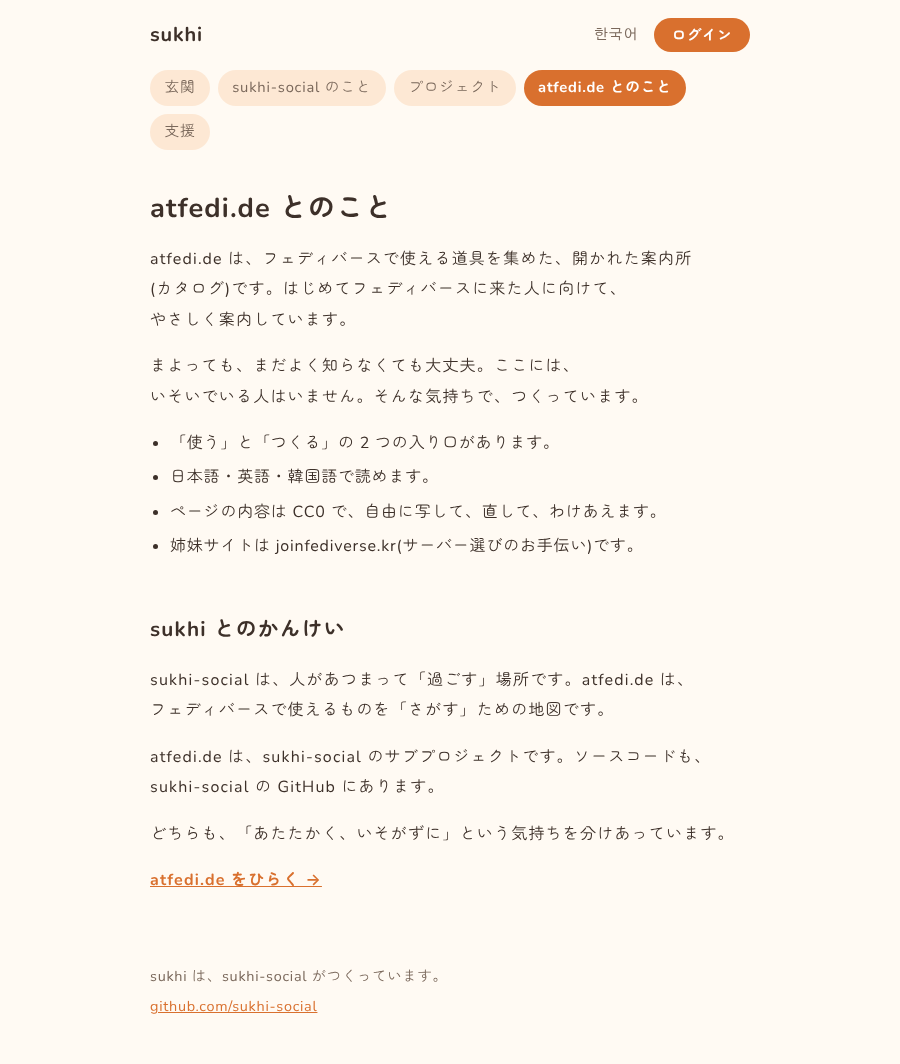
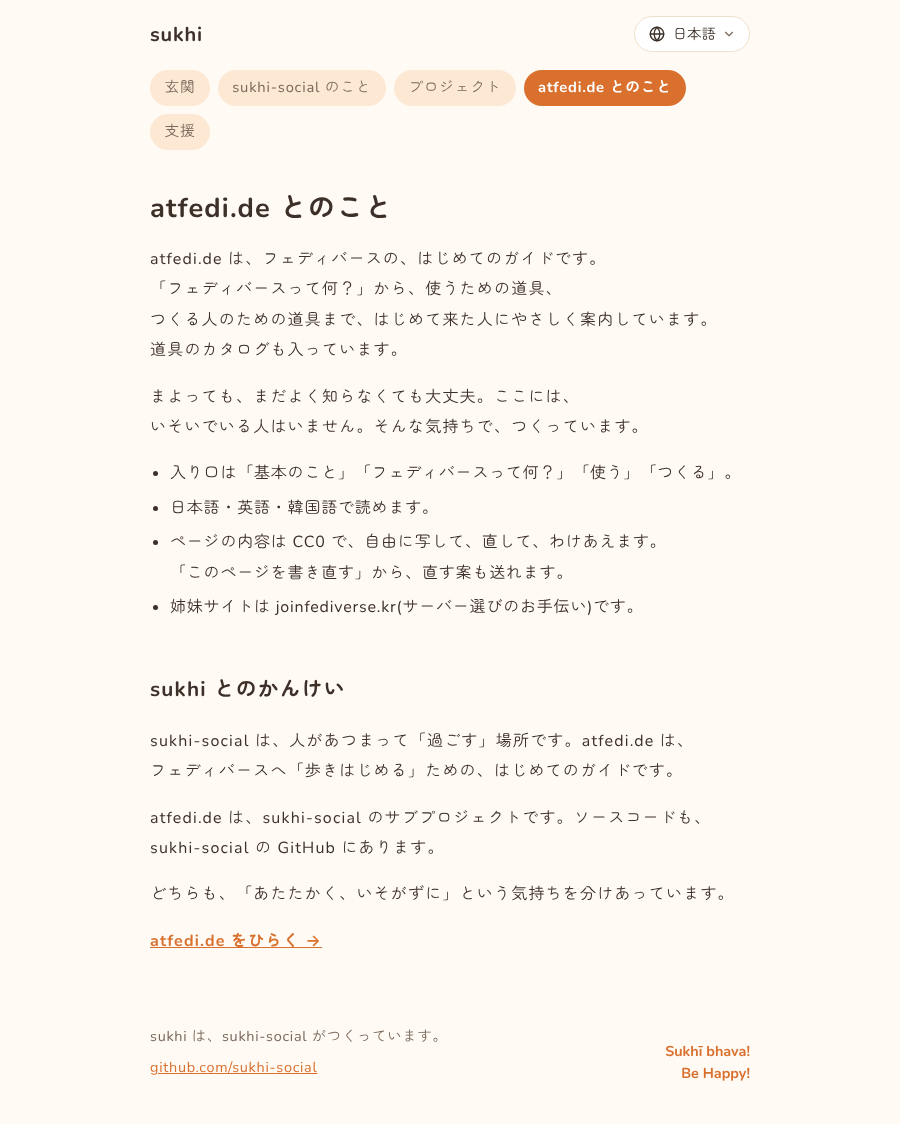
atfedi.de is now a first-steps guide (with a catalog), not just a catalog: update ja/ko/en copy
Claude-Session: https://claude.ai/code/session_01EUxHZau6UP3xLAsGqKBsmf

diff --git a/src/content.ts b/src/content.ts
@@ -168,7 +168,7 @@ export const copy: Record<Locale, Copy> = {
       lead: 'この場所を支えるために、sukhi-social ではいろいろなものをつくっています。ぜんぶ公開していて、だれでも中を見られます。むずかしそうに見えたら、ひとことの説明だけ読んでもらえれば大丈夫です。',
       items: [
         { name: 'sukhi-fedi', href: FEDI_REPO_URL, text: 'sukhi.social を動かす、SNS のしくみ(ソフトウェア)。Mastodon や Misskey のアプリとも、つなぎやすいようにつくっています。' },
-        { name: 'atfedi.de', href: ATFEDI_URL, text: 'フェディバースの道具を集めた案内所。くわしくは「atfedi.de とのこと」で。' },
+        { name: 'atfedi.de', href: ATFEDI_URL, text: 'フェディバースの、はじめてのガイド。道具のカタログもあります。くわしくは「atfedi.de とのこと」で。' },
         { name: 'mazemaze-api', href: 'https://github.com/sukhi-social/mazemaze-api', text: 'Misskey や Mastodon などの SNS につなぐアプリを、つくりやすくするための部品づくり。' },
         { name: 'ojak-ex', href: 'https://github.com/sukhi-social/ojak-ex', text: 'SNS どうしがやりとりするときの「署名」など、裏方のしくみを扱う部品(Elixir という言語向け)。' }
       ],
@@ -199,21 +199,21 @@ export const copy: Record<Locale, Copy> = {
     },
     atfedi: {
       title: 'atfedi.de とのこと — sukhi',
-      description: 'フェディバースの道具の案内所 atfedi.de と、sukhi のかんけいについて。',
+      description: 'フェディバースの、はじめてのガイド atfedi.de と、sukhi のかんけいについて。',
       heading: 'atfedi.de とのこと',
       what: [
-        'atfedi.de は、フェディバースで使える道具を集めた、開かれた案内所(カタログ)です。はじめてフェディバースに来た人に向けて、やさしく案内しています。',
+        'atfedi.de は、フェディバースの、はじめてのガイドです。「フェディバースって何？」から、使うための道具、つくる人のための道具まで、はじめて来た人にやさしく案内しています。道具のカタログも入っています。',
         'まよっても、まだよく知らなくても大丈夫。ここには、いそいでいる人はいません。そんな気持ちで、つくっています。'
       ],
       facts: [
-        '「使う」と「つくる」の 2 つの入り口があります。',
+        '入り口は「基本のこと」「フェディバースって何？」「使う」「つくる」。',
         '日本語・英語・韓国語で読めます。',
-        'ページの内容は CC0 で、自由に写して、直して、わけあえます。',
+        'ページの内容は CC0 で、自由に写して、直して、わけあえます。「このページを書き直す」から、直す案も送れます。',
         '姉妹サイトは joinfediverse.kr(サーバー選びのお手伝い)です。'
       ],
       relHeading: 'sukhi とのかんけい',
       rel: [
-        'sukhi-social は、人があつまって「過ごす」場所です。atfedi.de は、フェディバースで使えるものを「さがす」ための地図です。',
+        'sukhi-social は、人があつまって「過ごす」場所です。atfedi.de は、フェディバースへ「歩きはじめる」ための、はじめてのガイドです。',
         'atfedi.de は、sukhi-social のサブプロジェクトです。ソースコードも、sukhi-social の GitHub にあります。',
         'どちらも、「あたたかく、いそがずに」という気持ちを分けあっています。'
       ],
@@ -287,7 +287,7 @@ export const copy: Record<Locale, Copy> = {
       lead: '이 공간을 받쳐 주려고 sukhi-social에서는 여러 가지를 만들고 있어요. 모두 공개되어 있어서 누구나 안을 볼 수 있어요. 어려워 보이면 한 줄 설명만 읽어도 괜찮아요.',
       items: [
         { name: 'sukhi-fedi', href: FEDI_REPO_URL, text: 'sukhi.social을 움직이는 SNS의 구조(소프트웨어)예요. Mastodon이나 Misskey 앱과도 쉽게 이어지도록 만들고 있어요.' },
-        { name: 'atfedi.de', href: ATFEDI_URL, text: '페디버스 도구를 모아 둔 안내소예요. 자세한 이야기는 ‘atfedi.de 이야기’에서 해요.' },
+        { name: 'atfedi.de', href: ATFEDI_URL, text: '페디버스의 첫걸음 안내서예요. 도구 카탈로그도 있어요. 자세한 이야기는 ‘atfedi.de 이야기’에서 해요.' },
         { name: 'mazemaze-api', href: 'https://github.com/sukhi-social/mazemaze-api', text: 'Misskey나 Mastodon 등 SNS에 연결하는 앱을 만들기 쉽게 해 주는 부품을 만들고 있어요.' },
         { name: 'ojak-ex', href: 'https://github.com/sukhi-social/ojak-ex', text: 'SNS끼리 주고받을 때 쓰는 ‘서명’ 같은 뒷일을 맡는 부품이에요(Elixir 언어용).' }
       ],
@@ -318,21 +318,21 @@ export const copy: Record<Locale, Copy> = {
     },
     atfedi: {
       title: 'atfedi.de 이야기 — sukhi',
-      description: '페디버스 도구 안내소 atfedi.de와 sukhi의 관계에 대해서.',
+      description: '페디버스 첫걸음 안내서 atfedi.de와 sukhi의 관계에 대해서.',
       heading: 'atfedi.de 이야기',
       what: [
-        'atfedi.de는 페디버스에서 쓸 수 있는 도구를 모아 둔 열린 안내소(카탈로그)예요. 페디버스에 처음 온 분들을 위해 부드럽게 안내해요.',
+        'atfedi.de는 페디버스의 첫걸음 안내서예요. ‘페디버스가 뭐예요?’부터 쓰는 도구, 만드는 사람을 위한 도구까지, 처음 온 분들을 위해 부드럽게 안내해요. 도구 카탈로그도 들어 있어요.',
         '헤매도, 아직 잘 몰라도 괜찮아요. 여기에는 서두르는 사람이 없어요. 그런 마음으로 만들고 있어요.'
       ],
       facts: [
-        '‘사용하기’와 ‘만들기’ 두 개의 입구가 있어요.',
+        '입구는 ‘기본 이야기’, ‘페디버스가 뭐예요?’, ‘사용하기’, ‘만들기’예요.',
         '일본어·영어·한국어로 읽을 수 있어요.',
-        '페이지 내용은 CC0라서 자유롭게 복사하고 고치고 나눌 수 있어요.',
+        '페이지 내용은 CC0라서 자유롭게 복사하고 고치고 나눌 수 있어요. ‘이 페이지 고쳐 쓰기’로 고칠 점을 보낼 수도 있어요.',
         '자매 사이트는 joinfediverse.kr(서버 고르기를 도와줘요)이에요.'
       ],
       relHeading: 'sukhi와의 관계',
       rel: [
-        'sukhi-social은 사람들이 모여 ‘지내는’ 공간이에요. atfedi.de는 페디버스에서 쓸 수 있는 것을 ‘찾는’ 지도예요.',
+        'sukhi-social은 사람들이 모여 ‘지내는’ 공간이에요. atfedi.de는 페디버스로 ‘걸어 들어가는’ 첫걸음 안내서예요.',
         'atfedi.de는 sukhi-social의 서브 프로젝트예요. 소스 코드도 sukhi-social의 GitHub에 있어요.',
         '둘 다 ‘따뜻하게, 서두르지 않고’라는 마음을 나누고 있어요.'
       ],
@@ -406,7 +406,7 @@ export const copy: Record<Locale, Copy> = {
       lead: 'To support this place, sukhi-social makes a few different things. All of it is open, so anyone can look inside. If something sounds technical, the one-line description is all you need.',
       items: [
         { name: 'sukhi-fedi', href: FEDI_REPO_URL, text: 'The social network software that runs sukhi.social. It is built to connect easily with apps for Mastodon and Misskey.' },
-        { name: 'atfedi.de', href: ATFEDI_URL, text: 'A friendly directory of fediverse tools. More in "About atfedi.de".' },
+        { name: 'atfedi.de', href: ATFEDI_URL, text: 'A first-steps guide to the fediverse, with a catalog of tools too. More in "About atfedi.de".' },
         { name: 'mazemaze-api', href: 'https://github.com/sukhi-social/mazemaze-api', text: 'Parts that make it easier to build apps that connect to social networks like Misskey and Mastodon.' },
         { name: 'ojak-ex', href: 'https://github.com/sukhi-social/ojak-ex', text: 'A behind-the-scenes part for the Elixir language, handling things like the "signatures" social networks use when they talk to each other.' }
       ],
@@ -437,21 +437,21 @@ export const copy: Record<Locale, Copy> = {
     },
     atfedi: {
       title: 'About atfedi.de — sukhi',
-      description: 'atfedi.de, a friendly directory of fediverse tools, and how it relates to sukhi.',
+      description: 'atfedi.de, a friendly first-steps guide to the fediverse, and how it relates to sukhi.',
       heading: 'About atfedi.de',
       what: [
-        'atfedi.de is an open directory of tools for the fediverse. It is a gentle guide for people who have just arrived.',
+        'atfedi.de is a gentle first-steps guide to the fediverse. It greets newcomers with "Oh, a new friend! So glad you\'re here!" and walks them from "What is the fediverse?" to tools to use and tools to build. It also keeps a catalog of those tools.',
         "It's okay to feel lost, and okay not to know much yet. Nobody here is in a hurry. That is the spirit it is made in."
       ],
       facts: [
-        'It has two doors: "Use" and "Build".',
+        'Its doors are "The basics", "What is the fediverse?", "Use", and "Build".',
         'You can read it in Japanese, English, and Korean.',
-        'The page content is CC0, so you can copy, change, and share it freely.',
+        'The page content is CC0, so you can copy, change, and share it freely. A "Rewrite this page" link lets you suggest changes.',
         'Its sister site is joinfediverse.kr, which helps you choose a server.'
       ],
       relHeading: 'How it relates to sukhi',
       rel: [
-        'sukhi-social is a place where people gather and spend time. atfedi.de is a map for finding what you can use in the fediverse.',
+        'sukhi-social is a place where people gather and spend time. atfedi.de is a first-steps guide for starting to walk in the fediverse.',
         'atfedi.de is a sub-project of sukhi-social. Its source code lives on the sukhi-social GitHub, too.',
         'Both share the same feeling: warm, and not in a hurry.'
       ],
